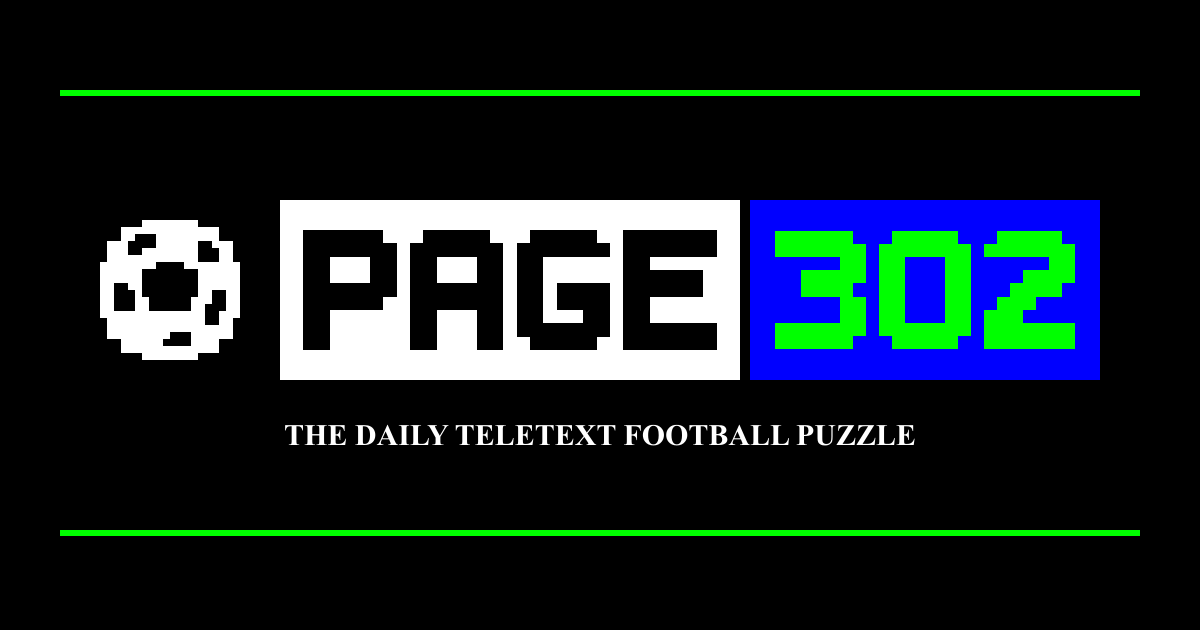
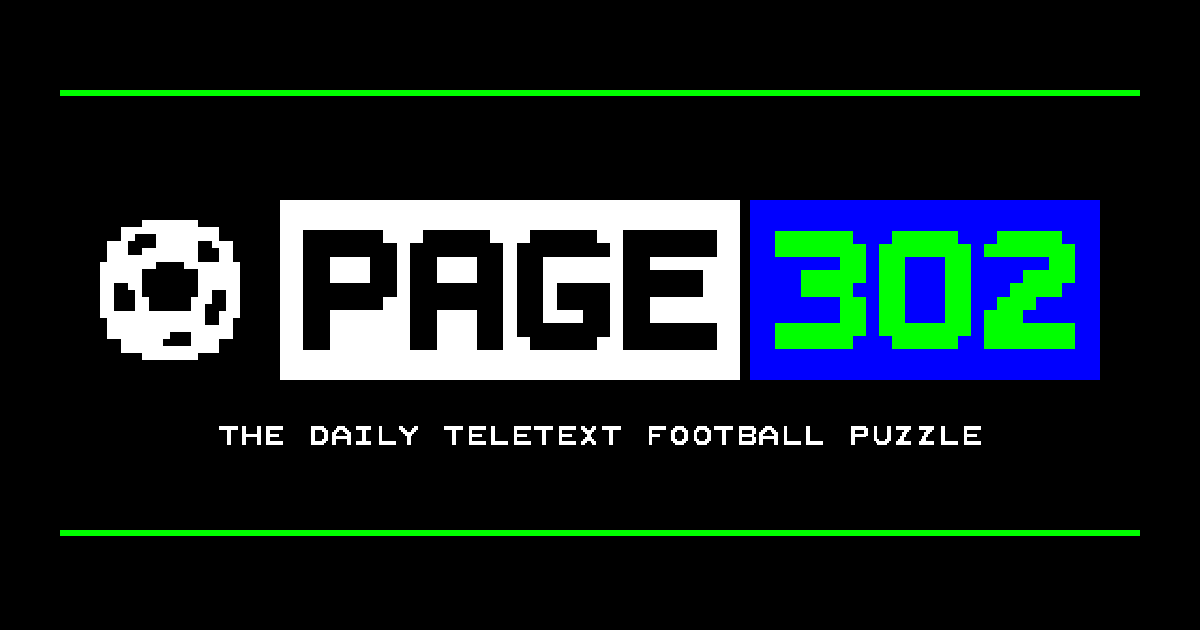
Fix social preview subtitle with outlined Teletext font

Changed region(s): [[0.185, 0.6635, 0.8325, 0.7238]]

diff --git a/index.html b/index.html
@@ -11,12 +11,12 @@
 <meta property="og:title" content="Page302 | The Daily Teletext Football Puzzle">
 <meta property="og:description" content="Complete the squad. Use every club. Find your rare XI.">
 <meta property="og:url" content="https://groganv-ai.github.io/Page302/">
-<meta property="og:image" content="https://groganv-ai.github.io/Page302/assets/social-card.png">
+<meta property="og:image" content="https://groganv-ai.github.io/Page302/assets/social-card.png?v=4.1.04">
 <meta property="og:image:width" content="1200"><meta property="og:image:height" content="630">
 <meta name="twitter:card" content="summary_large_image">
 <meta name="twitter:title" content="Page302 | The Daily Teletext Football Puzzle">
 <meta name="twitter:description" content="Complete the squad. Use every club. Find your rare XI.">
-<meta name="twitter:image" content="https://groganv-ai.github.io/Page302/assets/social-card.png">
+<meta name="twitter:image" content="https://groganv-ai.github.io/Page302/assets/social-card.png?v=4.1.04">
 <link rel="icon" href="assets/app-icon.svg" type="image/svg+xml">
 <link rel="icon" href="assets/favicon-32.png" sizes="32x32" type="image/png">
 <link rel="apple-touch-icon" href="assets/apple-touch-icon.png" sizes="180x180">

diff --git a/script.js b/script.js
@@ -75,7 +75,7 @@ let gameComplete = false;
 let currentVggfax = "003";
 
 // Update this one value whenever a new code version is created.
-const APP_BUILD = "v4.1.03_003";
+const APP_BUILD = "v4.1.04_003";
 let answerTargetSlot = null;
 
 const FALLBACK_VGGFAX = [
